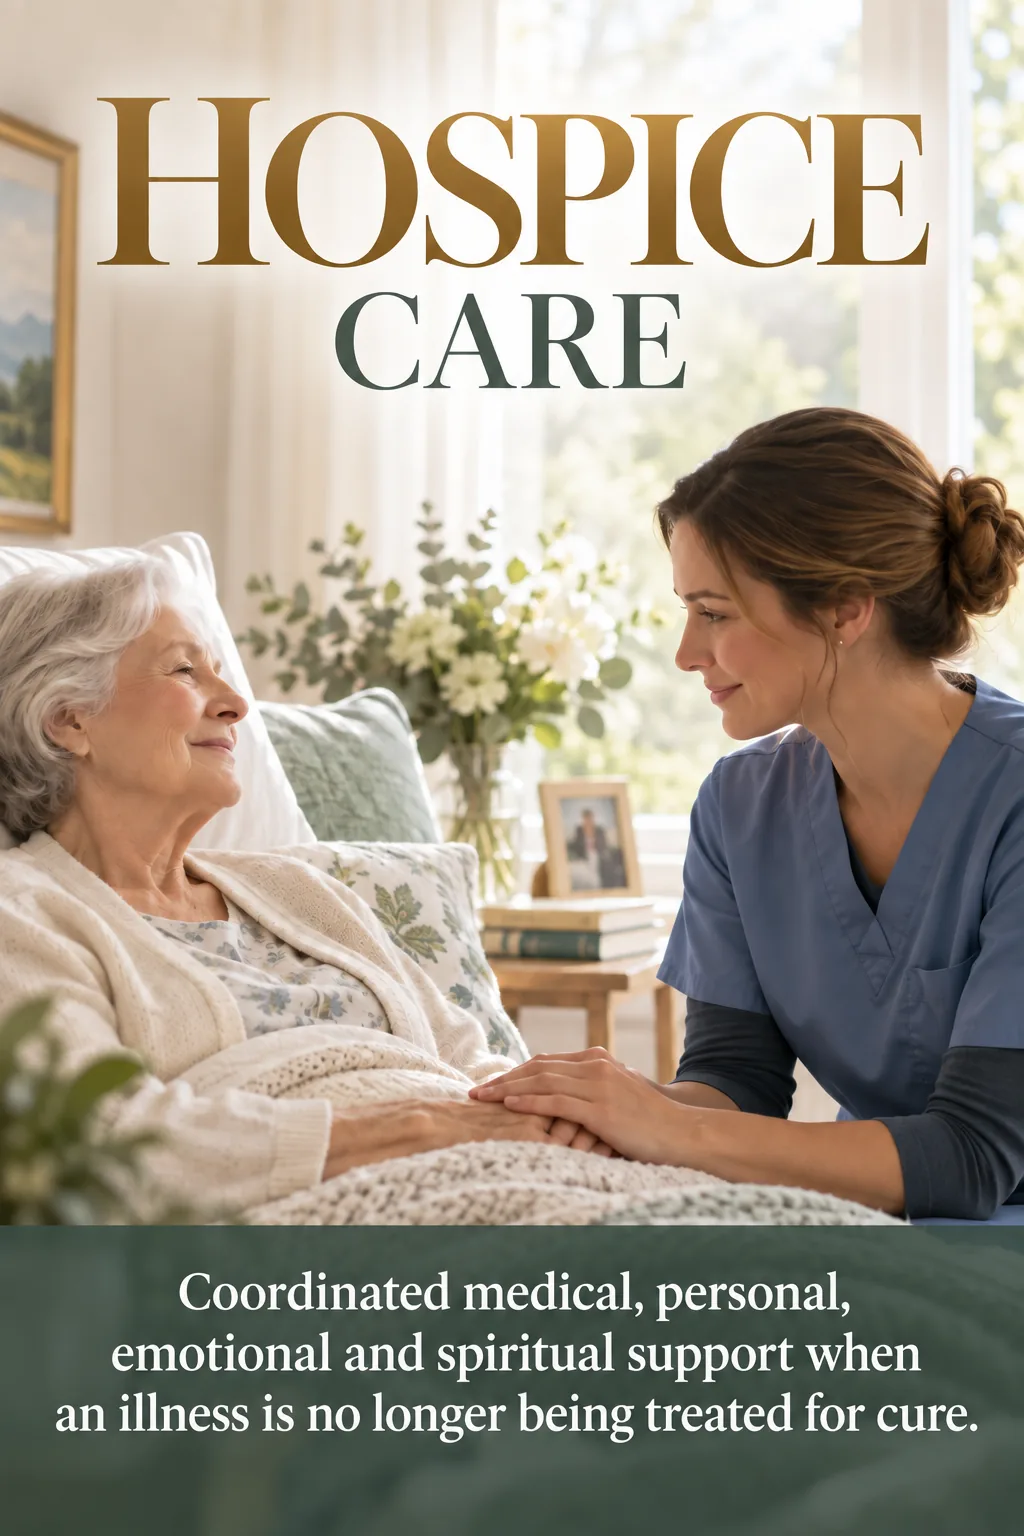
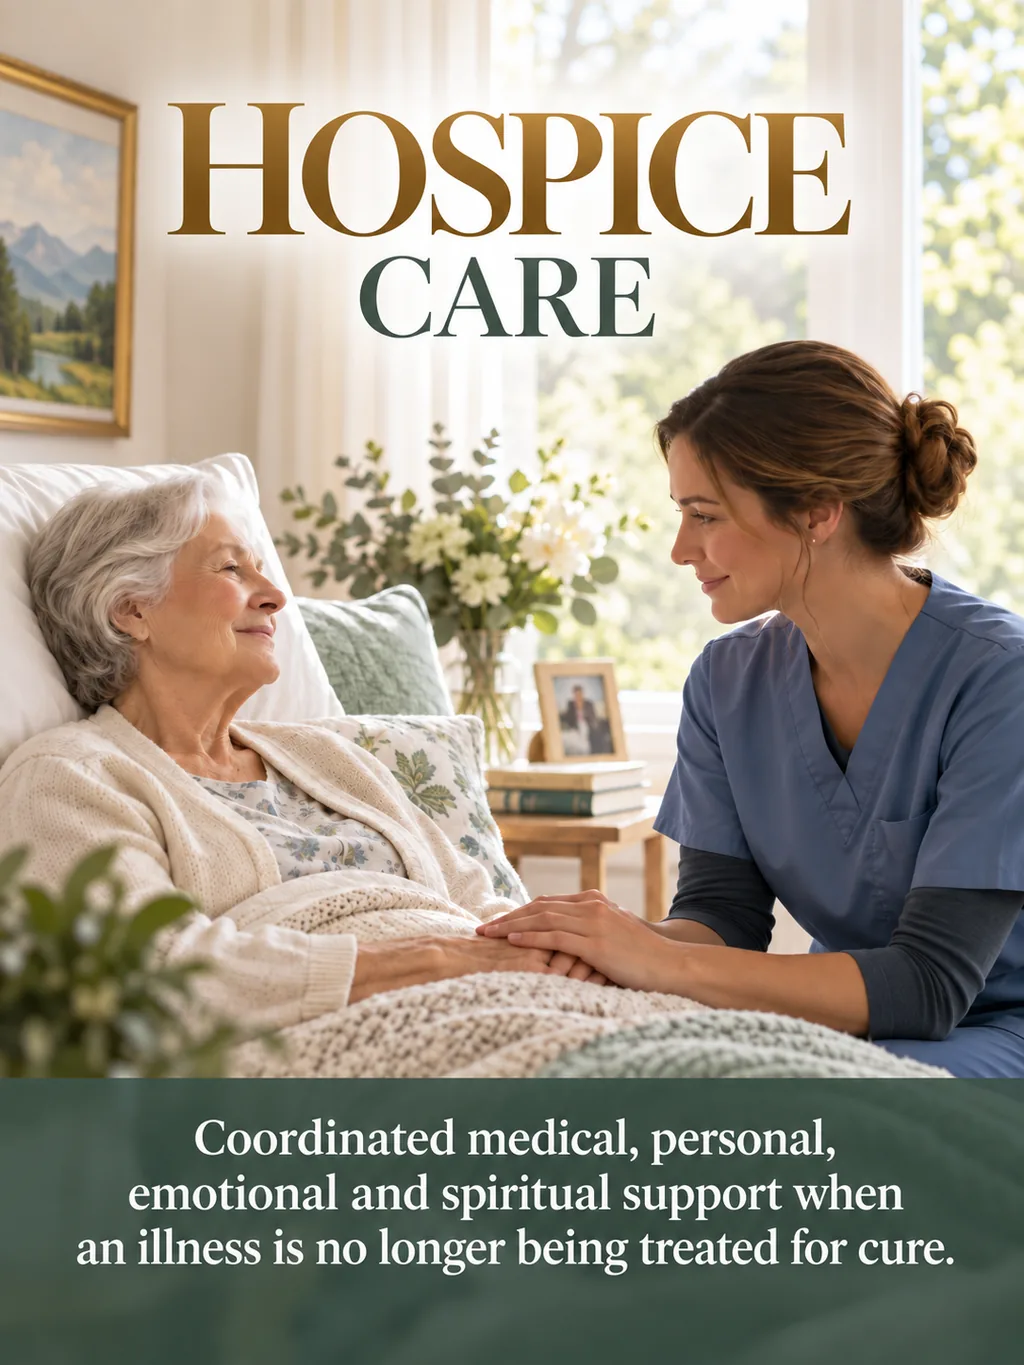
Hospice cover replaced with the 3:4 version so it displays whole on the Articles cards

diff --git a/src/pages/articles/HospiceCare.tsx b/src/pages/articles/HospiceCare.tsx
@@ -102,7 +102,7 @@ const HospiceCare = () => {
                   alt="Hospice care: a nurse holding the hand of an older woman resting at home — coordinated medical, personal, emotional and spiritual support when an illness is no longer being treated for cure"
                   style={{ maxWidth: 340, width: "100%", height: "auto", borderRadius: 8, boxShadow: "0 8px 24px rgba(0,0,0,0.15)" }}
                   width={1024}
-                  height={1536}
+                  height={1365}
                   decoding="async"
                 />
               </div>
